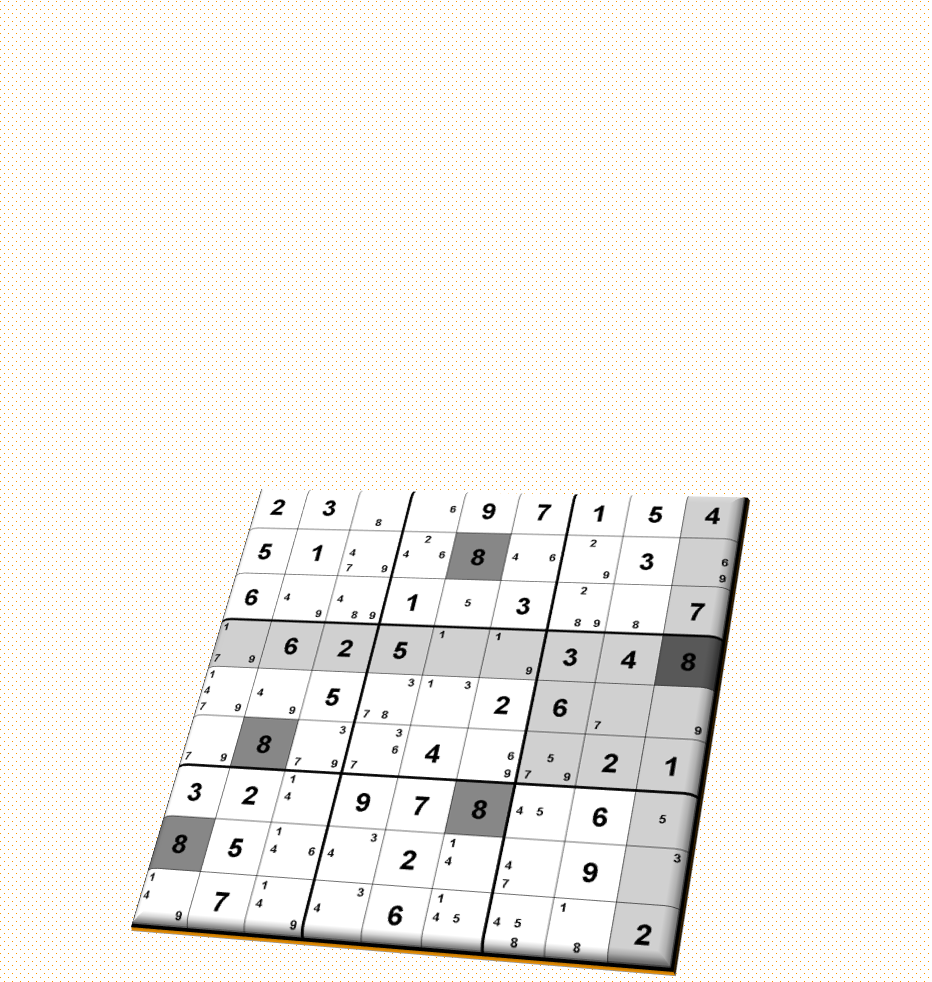
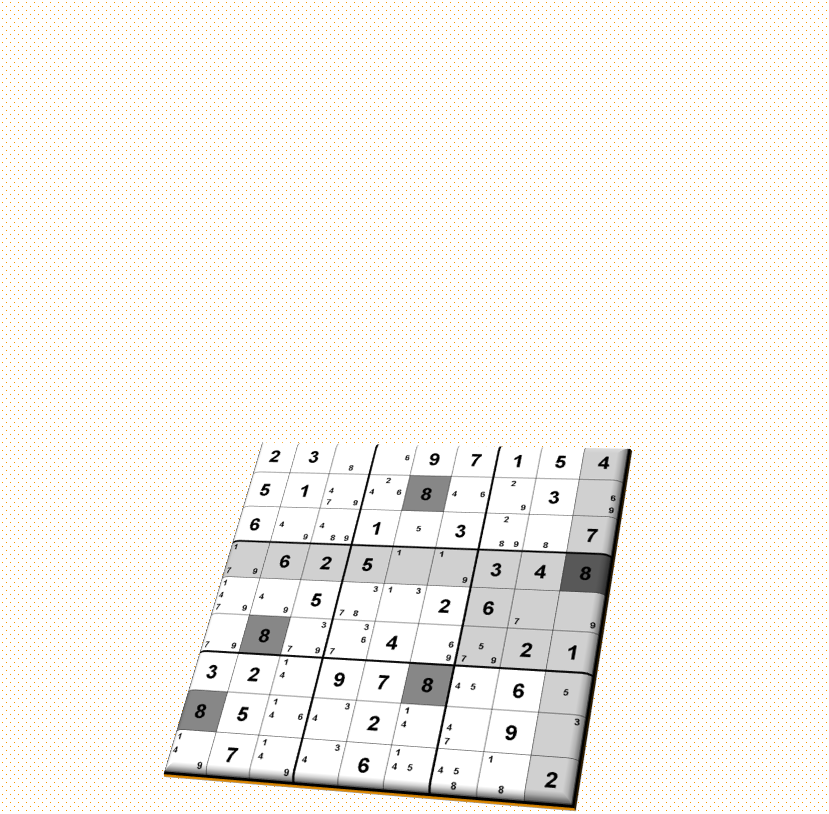
Changed background based on menu

Changed region(s): [[0.0, 0.0, 1.0, 1.0]]

diff --git a/src/main/java/sudoku/Screens/GenerateNewSudokuScreen.java b/src/main/java/sudoku/Screens/GenerateNewSudokuScreen.java
@@ -5,11 +5,13 @@ import MVC.Model.Mode;
 import MVC.View;
 import solvers.SudokuSolver;
 
+import javax.imageio.ImageIO;
 import javax.swing.*;
 import javax.swing.event.ChangeEvent;
 import javax.swing.event.ChangeListener;
 import java.awt.event.ActionEvent;
 import java.awt.event.ActionListener;
+import java.io.File;
 
 public class GenerateNewSudokuScreen extends MenuScreen {
     private JLabel titleLabel,
@@ -31,6 +33,15 @@ public class GenerateNewSudokuScreen extends MenuScreen {
     public GenerateNewSudokuScreen(JFrame frame, Mode mode, boolean assistMode) {
         this(frame, mode);
         this.assistMode = assistMode;
+    }
+
+    @Override
+    protected void initBackground() {
+        try {
+            backgroundImage = ImageIO.read(new File("src/main/resources/Background2.png"));
+        } catch (Exception e) {
+            e.printStackTrace();
+        }
     }
 
     public void addComponents(){//init title, sliders, and buttons

diff --git a/src/main/java/sudoku/Screens/MenuScreen.java b/src/main/java/sudoku/Screens/MenuScreen.java
@@ -67,7 +67,7 @@ public abstract class MenuScreen extends JPanel {
         frame.setVisible(true);
     }
     //Sets background image as the first "layer" of the UI.
-    private void initBackground() {
+    protected void initBackground() {
         try {
             backgroundImage = ImageIO.read(new File("src/main/resources/Background.png"));
         } catch (Exception e) {
